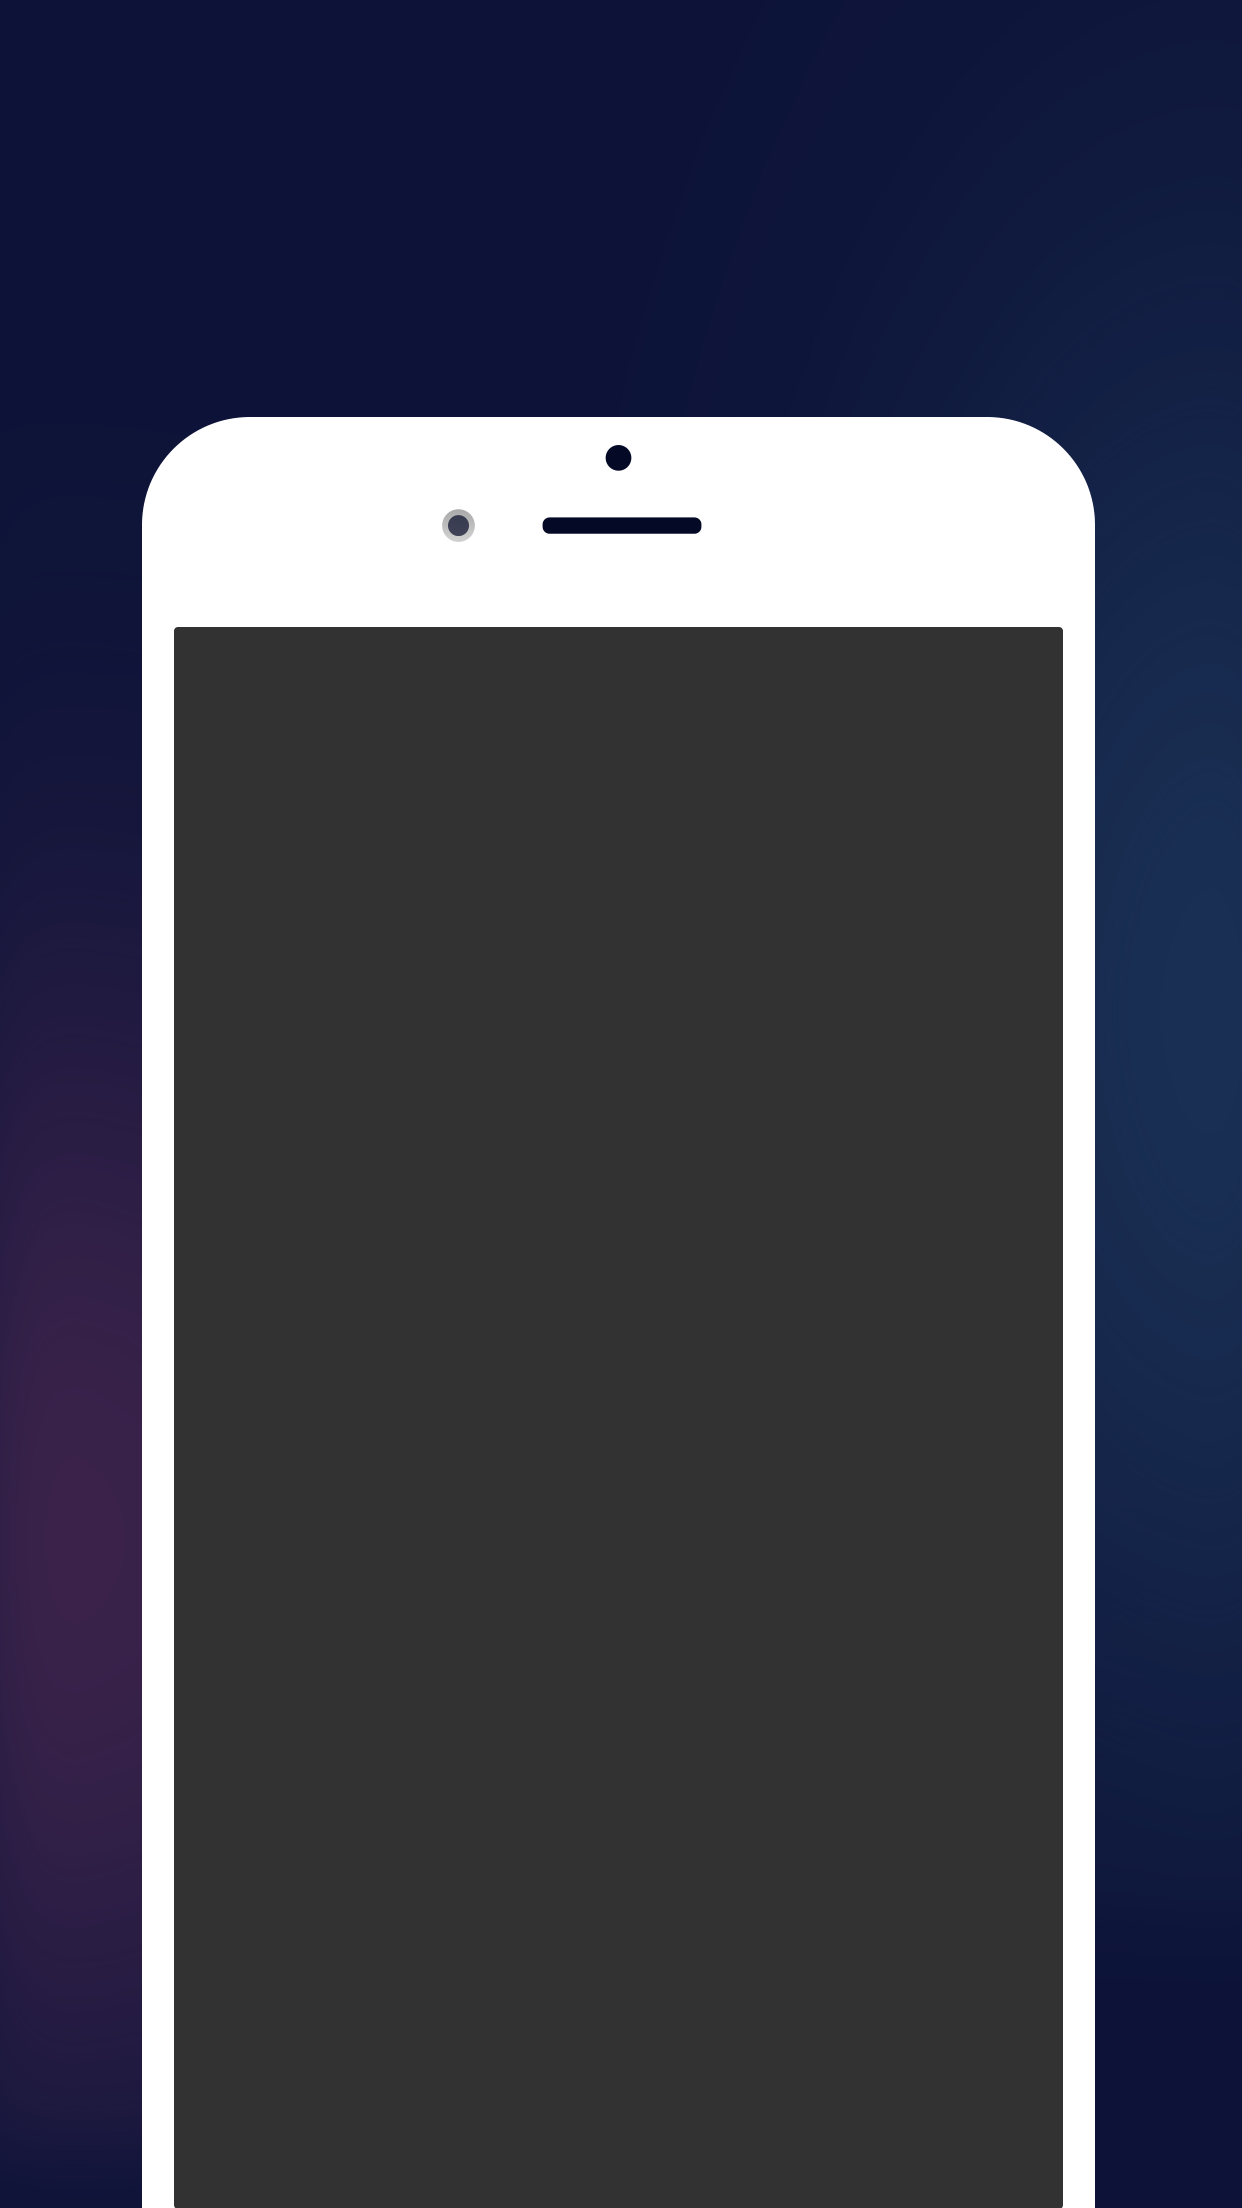
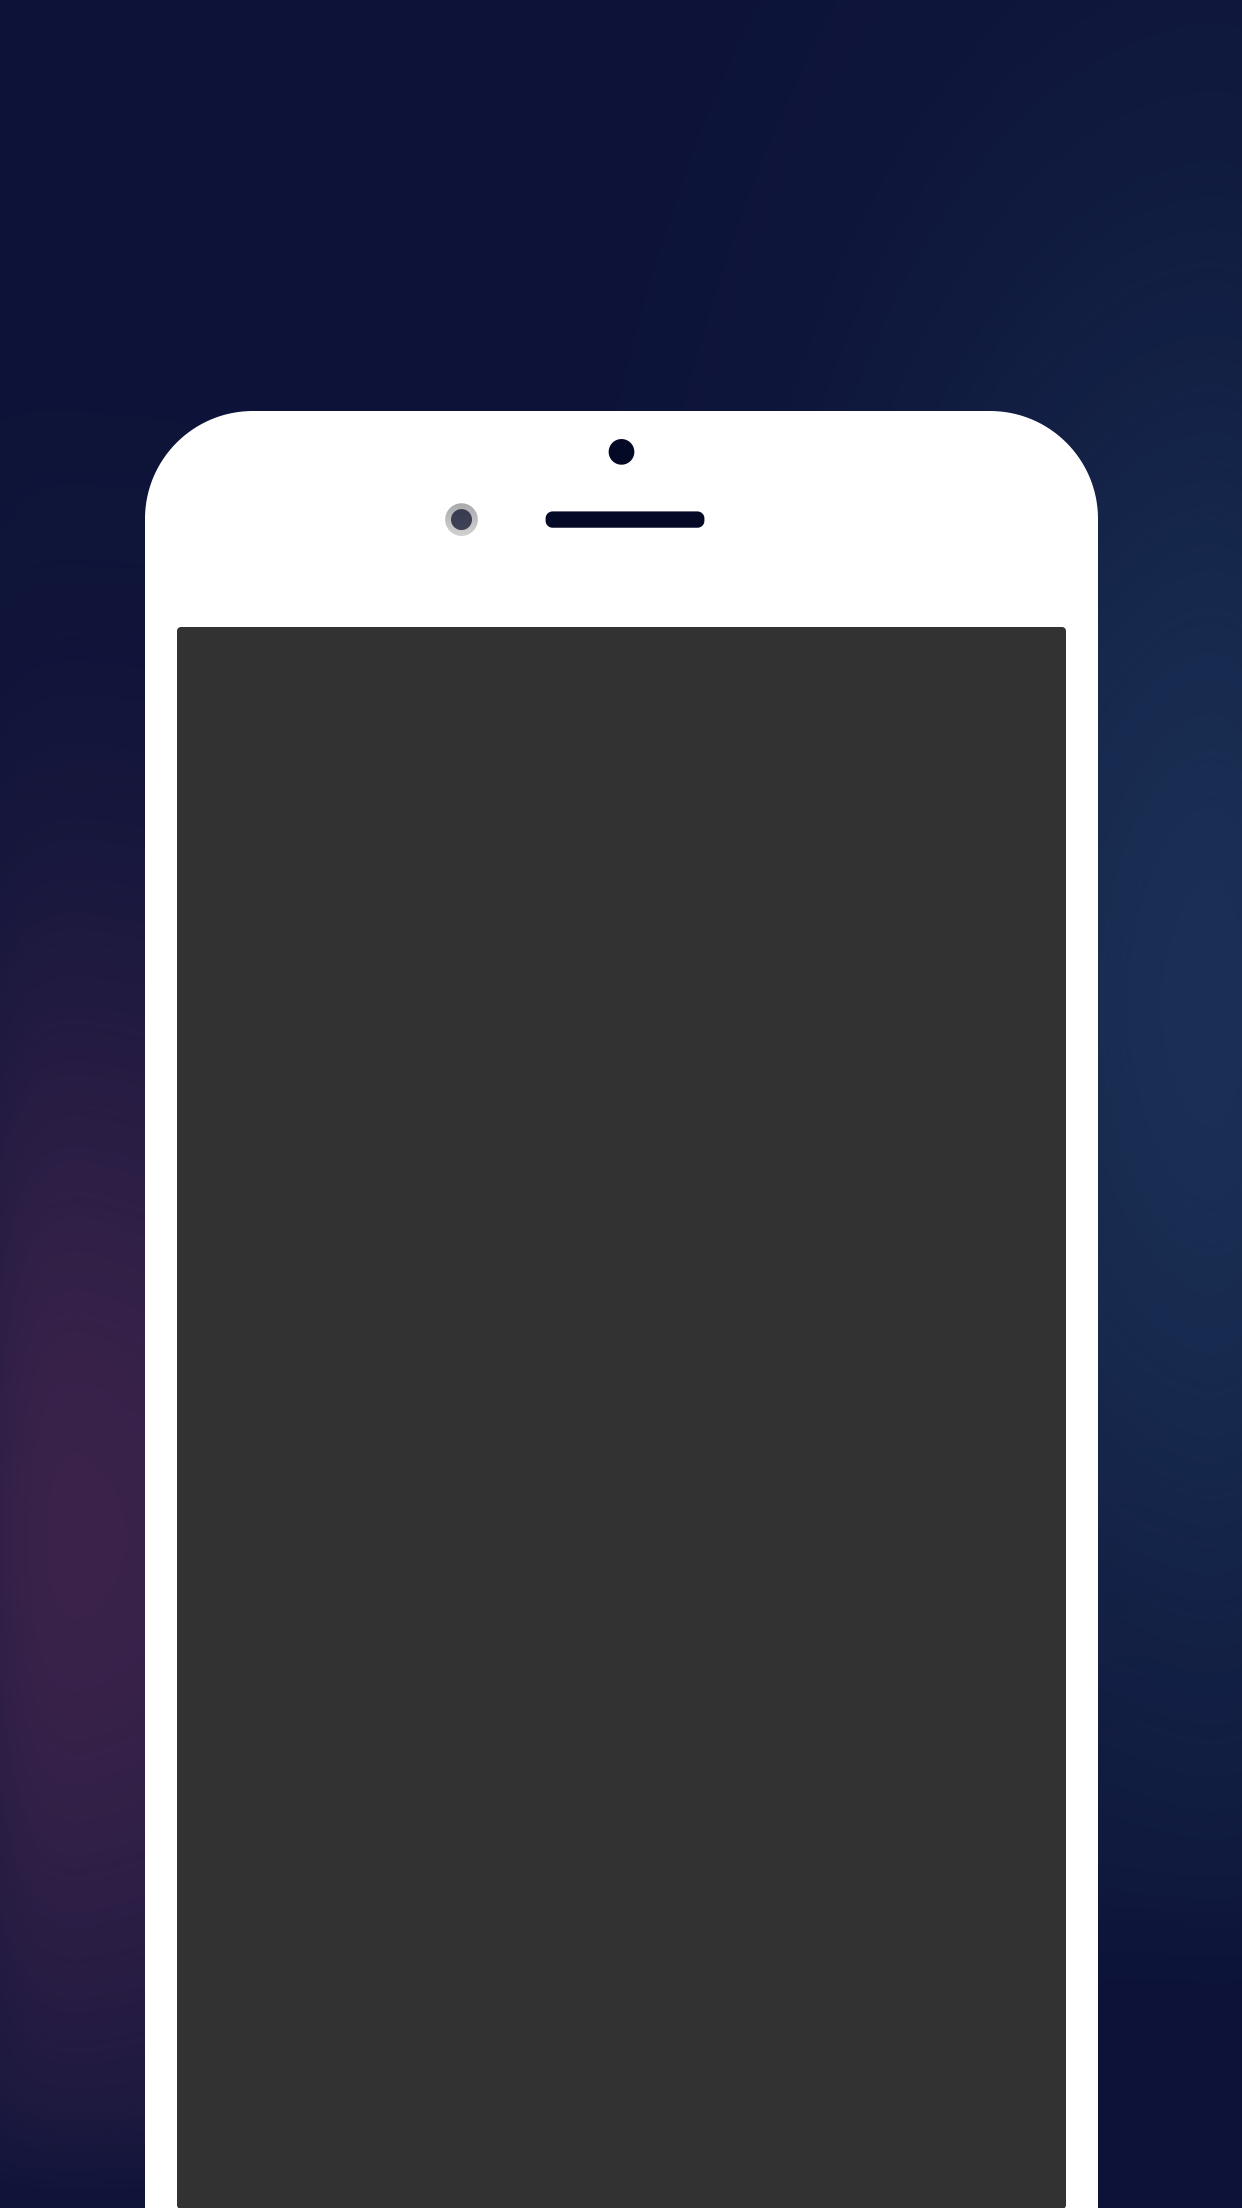
Get it done

diff --git a/app.js b/app.js
@@ -12,11 +12,34 @@ app.set('view engine', 'html')
 
 var config = {
   '3.5': {
-
+    width: '640px',
+    screenshotWidth: '440px',
+    titleHeight: '150px',
+    fontSize: '40px'
+  },
+  '4': {
+    width: '640px',
+    screenshotWidth: '459px',
+    titleHeight: '200px',
+    fontSize: '40px'
+  },
+  '4.7': {
+    width: '750px',
+    screenshotWidth: '537px',
+    titleHeight: '240px',
+    fontSize: '45px'
   },
   '5.5': {
-    'width': '1242px',
-    'height': '',
+    width: '1242px',
+    screenshotWidth: '890px',
+    titleHeight: '390px',
+    fontSize: '80px'
+  },
+  'android': {
+    width: '1242px',
+    screenshotWidth: '890px',
+    titleHeight: '390px',
+    fontSize: '80px'
   }
 }
 

diff --git a/views/index.html b/views/index.html
@@ -11,13 +11,25 @@
       .title p {
         width: <%= config.width %>;
       }
+
+      .screenshot {
+        width: <%= config.screenshotWidth %>;
+      }
+
+      .title {
+        height: <%= config.titleHeight %>;
+      }
+
+      .title p {
+        font-size: <%= config.fontSize %>;
+      }
     </style>
   </head>
 
   <body>
     <div class="container">
       <div class="title">
-        <p>The Best Guide The Best Guide The Best Guide The Best Guide</p>
+        <p><%= config['title-' + query.index] %></p>
       </div>
       <img src="/images/bg-<%= query.device %>.png" />
       <img class="screenshot" src="/images/<%= config.name %>/<%= query.device %>/<%= query.index %>.png" />

diff --git a/public/css/index.css b/public/css/index.css
@@ -37,7 +37,7 @@ body {
   position: absolute;
   left: 50%;
   bottom: 0;
-  width: 890px;
+  width: 100px;
   -webkit-transform: translateX(-50%);
           transform: translateX(-50%);
 }
